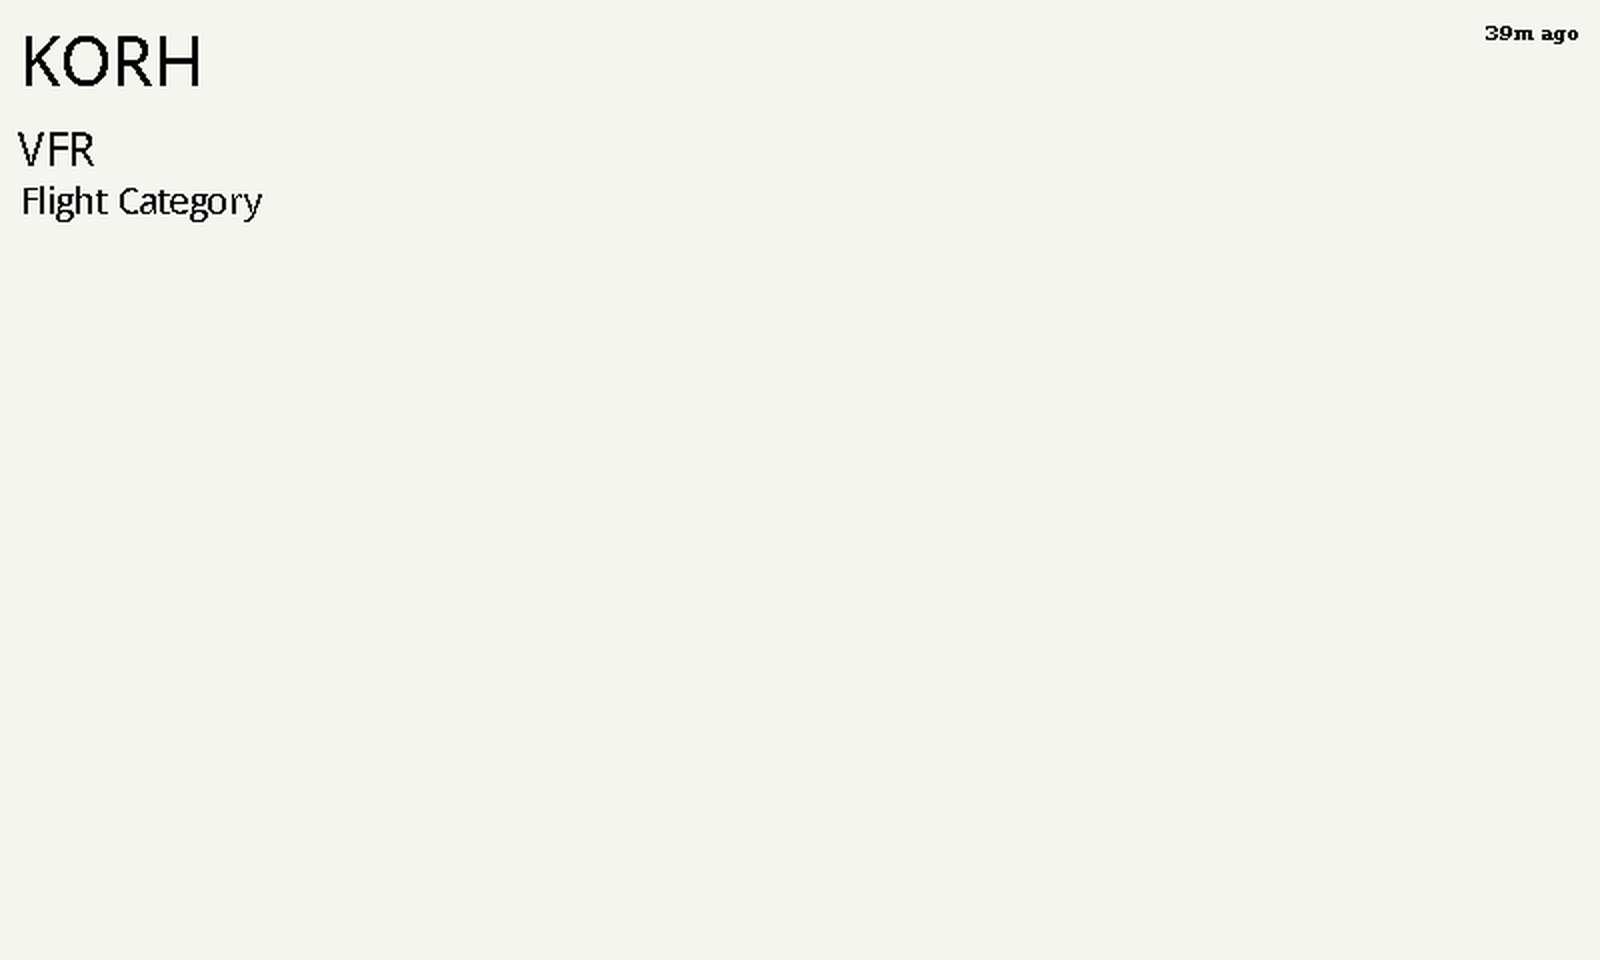
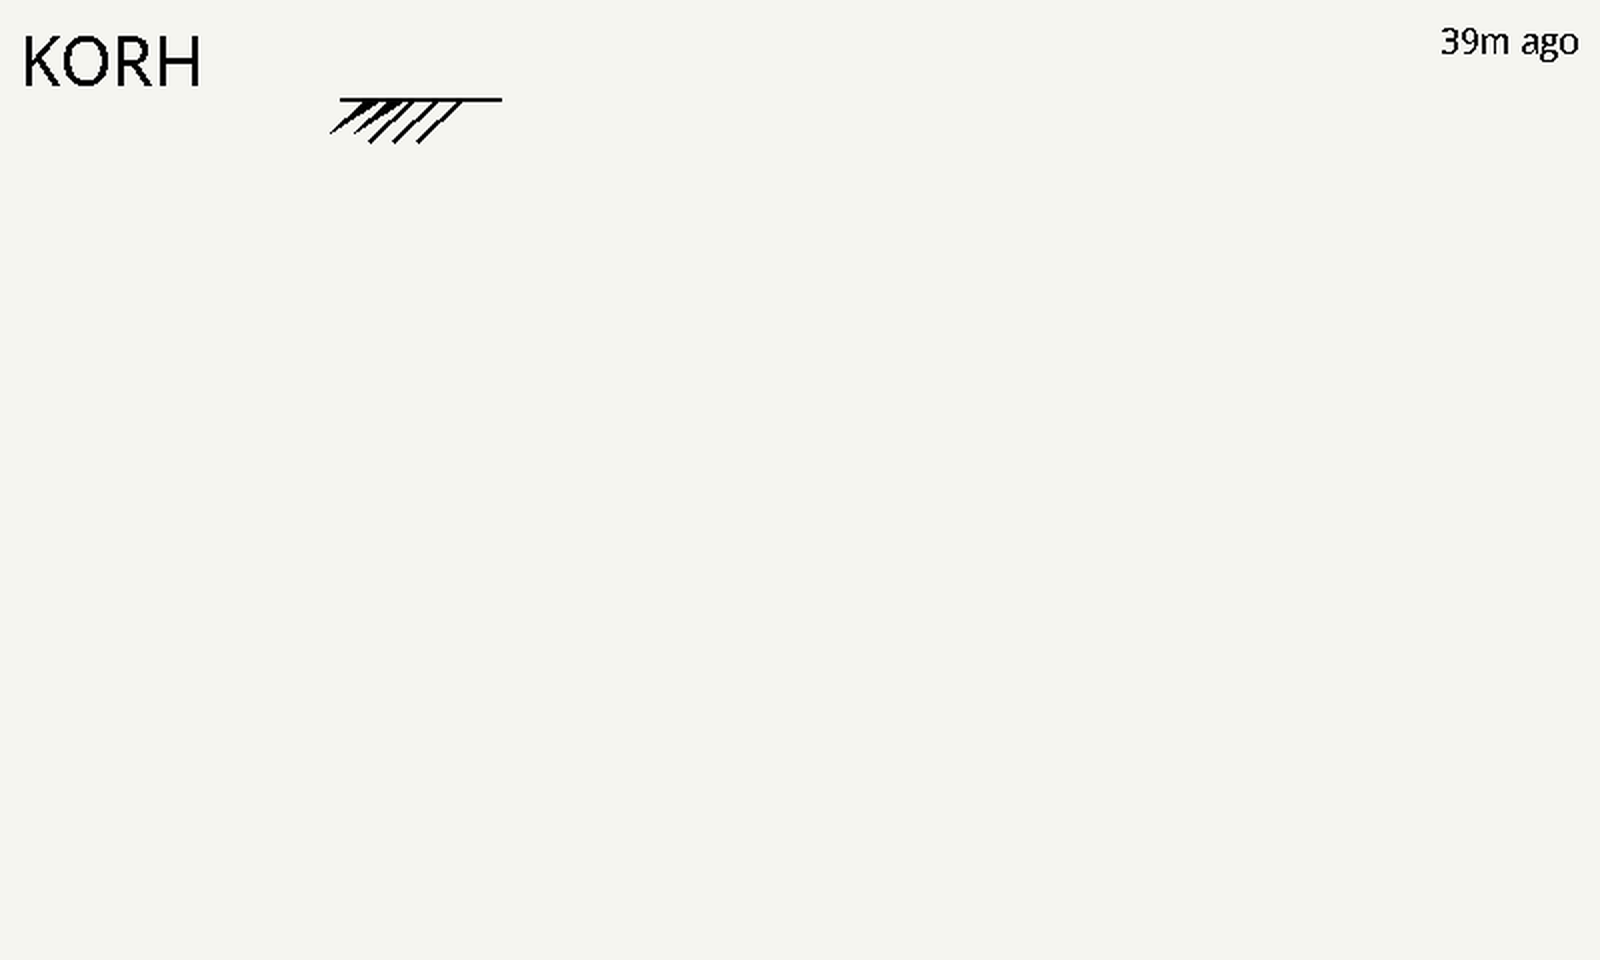
add mock display

Changed region(s): [[0.0, 0.125, 0.1562, 0.25], [0.2188, 0.0938, 0.3125, 0.1562], [0.9062, 0.0312, 1.0, 0.0625]]

diff --git a/display/display_manager.py b/display/display_manager.py
@@ -1,24 +1,226 @@
+import math
+import time
 from pathlib import Path
-from display.epd_interface import EPD
+import logging
+from PIL import Image,ImageDraw,ImageFont
+
+logger = logging.getLogger()
 
 class DisplayManager:
     def __init__(self, dev_mode=True):
         self.dev_mode = dev_mode
-        self.load_fonts()
-        self.init_display()
 
-    def init_display():
+        self.font18: ImageFont = None
+        self.font24: ImageFont = None
+        self.font35: ImageFont = None
+
+        if not dev_mode:
+            self.epd = self.init_display()
+        
+        self.image = self.init_image()
+        self.draw = self.init_draw(self.image)
+
+        self.load_fonts()
+
+    def init_display(self):
+        from display.epd_interface import EPD
         epd = EPD()
-    
-        logging.info("init and Clear")
+        
+        logger.info("Init EPD display")
         epd.init()
-        pass
+
+        return epd
+
+    def init_image(self, width: int = 800, height: int = 480):
+        return Image.new('1', (width, height), 255)
+    
+    def init_draw(self, image: Image):
+        return ImageDraw.Draw(image)
 
     def load_fonts(self):
         picdir = Path(__file__).resolve().parent / 'pic'
-        font24 = ImageFont.truetype(str(picdir / 'Font.ttc'), 24)
-        font18 = ImageFont.truetype(str(picdir / 'Font.ttc'), 18)
-        font35 = ImageFont.truetype(str(picdir / 'Font.ttc'), 35)
+        self.font24 = ImageFont.truetype(str(picdir / 'Font.ttc'), 24)
+        self.font18 = ImageFont.truetype(str(picdir / 'Font.ttc'), 18)
+        self.font35 = ImageFont.truetype(str(picdir / 'Font.ttc'), 35)
+
+    def get_text_size(self, draw, text, font):
+        # Try the new method first (Pillow 8.0.0+)
+        if hasattr(draw, 'textbbox'):
+            bbox = draw.textbbox((0, 0), text, font=font)
+            return bbox[2] - bbox[0], bbox[3] - bbox[1]
+        # Fall back to the old method (Pillow < 10.0.0)
+        else:
+            return draw.textsize(text, font=font)
+
 
     def render_display(self):
-        pass
+        self.draw.text((10, 10), f"KORH", font=self.font35, fill=0)
+        self.draw_right_aligned_text(self.draw, "39m ago", 10, 10, self.font18)
+
+        self.draw_wind_barb(self.draw, 250, 50, 130, 270, scale=2)
+
+
+        if not self.dev_mode:
+            self.epd.display(self.epd.getbuffer(self.image))
+            time.sleep(20)
+        else: self.save_display_preview('weather_preview.png')
+
+    def draw_right_aligned_text(self, draw, text, y, margin, font, fill=0):
+        """Draw text right-aligned with a consistent margin"""
+        text_width, text_height = self.get_text_size(draw, text, font=font)
+        x = self.image.width - text_width - margin
+        # Draw the text
+        draw.text((x, y), text, font=font, fill=fill)
+        return y + text_height
+
+    def save_display_preview(self, filename=None, scale=2):
+        """
+        Save a preview of the e-ink display content to a file and optionally open it.
+        
+        Args:
+            image: PIL Image object containing the display content
+            filename: Path where to save the preview (default: creates a timestamped file)
+            preview: If True, tries to open the image in the default viewer
+            scale: Scale factor to make the preview larger and more visible (default: 2)
+        
+        Returns:
+            Path to the saved preview file
+        """
+        import os
+        import datetime
+        from PIL import Image, ImageOps
+        
+        if filename is None:
+            timestamp = datetime.datetime.now().strftime("%Y%m%d_%H%M%S")
+            filename = f"eink_preview_{timestamp}.png"
+        
+        os.makedirs(os.path.dirname(os.path.abspath(filename)), exist_ok=True)
+        
+        # Create a copy of the image to avoid modifying the original
+        preview_image = self.image.copy()
+        
+        # Convert to RGB to better simulate e-ink appearance
+        if preview_image.mode == '1':
+            # For 1-bit images, convert to RGB with proper black and white
+            preview_image = preview_image.convert('RGB')
+            
+            # Optional: Add slight gray tinting to simulate e-ink appearance
+            pixels = preview_image.load()
+            width, height = preview_image.size
+            for x in range(width):
+                for y in range(height):
+                    r, g, b = pixels[x, y]
+                    if r > 200 and g > 200 and b > 200:  # If it's close to white
+                        pixels[x, y] = (245, 245, 240)  # Slight off-white for e-ink simulation
+        
+        # Scale up for better visibility
+        if scale != 1:
+            width, height = preview_image.size
+            preview_image = preview_image.resize((width * scale, height * scale), Image.LANCZOS)
+        
+        preview_image.save(filename)
+        print(f"Preview saved to: {filename}")
+        
+        return filename
+
+    def draw_wind_barb(self, draw, x, y, wind_speed, wind_direction, scale=1.0, color='black', line_width=2):
+        """
+        Draw a wind barb symbol on an image.
+        
+        Args:
+            draw: PIL ImageDraw object
+            x, y: Center position of the wind barb
+            wind_speed: Wind speed in knots
+            wind_direction: Wind direction in degrees (0-360, where 0/360 is North)
+            scale: Scale factor for the barb size (default 1.0)
+            color: Color of the barb lines (default 'black')
+            line_width: Width of the barb lines (default 2)
+        """
+        
+        # Handle calm wind (< 3 knots)
+        if wind_speed < 3:
+            # Draw a circle for calm wind
+            radius = int(8 * scale)
+            bbox = [x - radius, y - radius, x + radius, y + radius]
+            draw.ellipse(bbox, outline=color, width=line_width)
+            return
+        
+        # Convert wind direction to radians
+        # Wind direction is "from" direction, so we add 180° to get "to" direction for barb orientation
+        # Also convert from meteorological (0° = North, clockwise) to mathematical (0° = East, counterclockwise)
+        angle_rad = math.radians(90 - wind_direction)
+        
+        # Base dimensions scaled
+        staff_length = int(40 * scale)
+        barb_length = int(15 * scale)
+        pennant_width = int(12 * scale)
+        
+        # Calculate staff end points
+        end_x = x + staff_length * math.cos(angle_rad)
+        end_y = y - staff_length * math.sin(angle_rad)
+        
+        # Draw the staff (main line)
+        draw.line([(x, y), (end_x, end_y)], fill=color, width=line_width)
+        
+        # Calculate barb components
+        speed_remaining = wind_speed
+        barb_spacing = 0.15  # Space between barbs as fraction of staff length
+        
+        # Start position depends on whether we have a 5-knot barb
+        # If we have a 5-knot component, start further from tip to leave room for offset
+        has_five_knot = (speed_remaining % 10) >= 5
+        if has_five_knot:
+            barb_position = 0.7  # Start further from tip
+        else:
+            barb_position = 0.85  # Start closer to tip
+        
+        # Calculate direction for barbs (45 degrees from the staff, to the right)
+        barb_angle = angle_rad - math.pi / 4  # 45 degrees instead of 90
+        
+        # Draw pennants (50 knot flags) - flush with tip
+        while speed_remaining >= 50:
+            pos_along_staff = barb_position
+            staff_x = x + (end_x - x) * pos_along_staff
+            staff_y = y + (end_y - y) * pos_along_staff
+            
+            # Pennant tip
+            tip_x = staff_x + pennant_width * math.cos(barb_angle)
+            tip_y = staff_y + pennant_width * math.sin(barb_angle)
+            
+            # Pennant base (slightly back along staff)
+            base_pos = pos_along_staff - barb_spacing * 0.7
+            base_x = x + (end_x - x) * base_pos
+            base_y = y + (end_y - y) * base_pos
+            
+            # Draw filled triangle for pennant
+            points = [(staff_x, staff_y), (tip_x, tip_y), (base_x, base_y)]
+            draw.polygon(points, fill=color)
+            
+            speed_remaining -= 50
+            barb_position -= barb_spacing
+        
+        # Draw full barbs (10 knot lines) - flush with tip
+        while speed_remaining >= 10:
+            pos_along_staff = barb_position
+            staff_x = x + (end_x - x) * pos_along_staff
+            staff_y = y + (end_y - y) * pos_along_staff
+            
+            barb_end_x = staff_x + barb_length * math.cos(barb_angle)
+            barb_end_y = staff_y + barb_length * math.sin(barb_angle)
+            
+            draw.line([(staff_x, staff_y), (barb_end_x, barb_end_y)], fill=color, width=line_width)
+            
+            speed_remaining -= 10
+            barb_position -= barb_spacing
+        
+        # Draw half barb (5 knot line) - offset from tip, closer to center
+        if speed_remaining >= 5:
+            # Half barb is positioned further back from the tip
+            pos_along_staff = barb_position - barb_spacing * 0.5  # Additional offset from other barbs
+            staff_x = x + (end_x - x) * pos_along_staff
+            staff_y = y + (end_y - y) * pos_along_staff
+            
+            half_barb_end_x = staff_x + (barb_length / 2) * math.cos(barb_angle)
+            half_barb_end_y = staff_y + (barb_length / 2) * math.sin(barb_angle)
+            
+            draw.line([(staff_x, staff_y), (half_barb_end_x, half_barb_end_y)], fill=color, width=line_width)

diff --git a/main.py b/main.py
@@ -1,7 +1,11 @@
 import argparse
+import logging
+
 from display.display_manager import DisplayManager
 
 def main(dev_mode: bool):
+    print(f"--dev-mode: {dev_mode}")
+
     display_manager = DisplayManager(dev_mode=dev_mode)
     display_manager.render_display()
 
